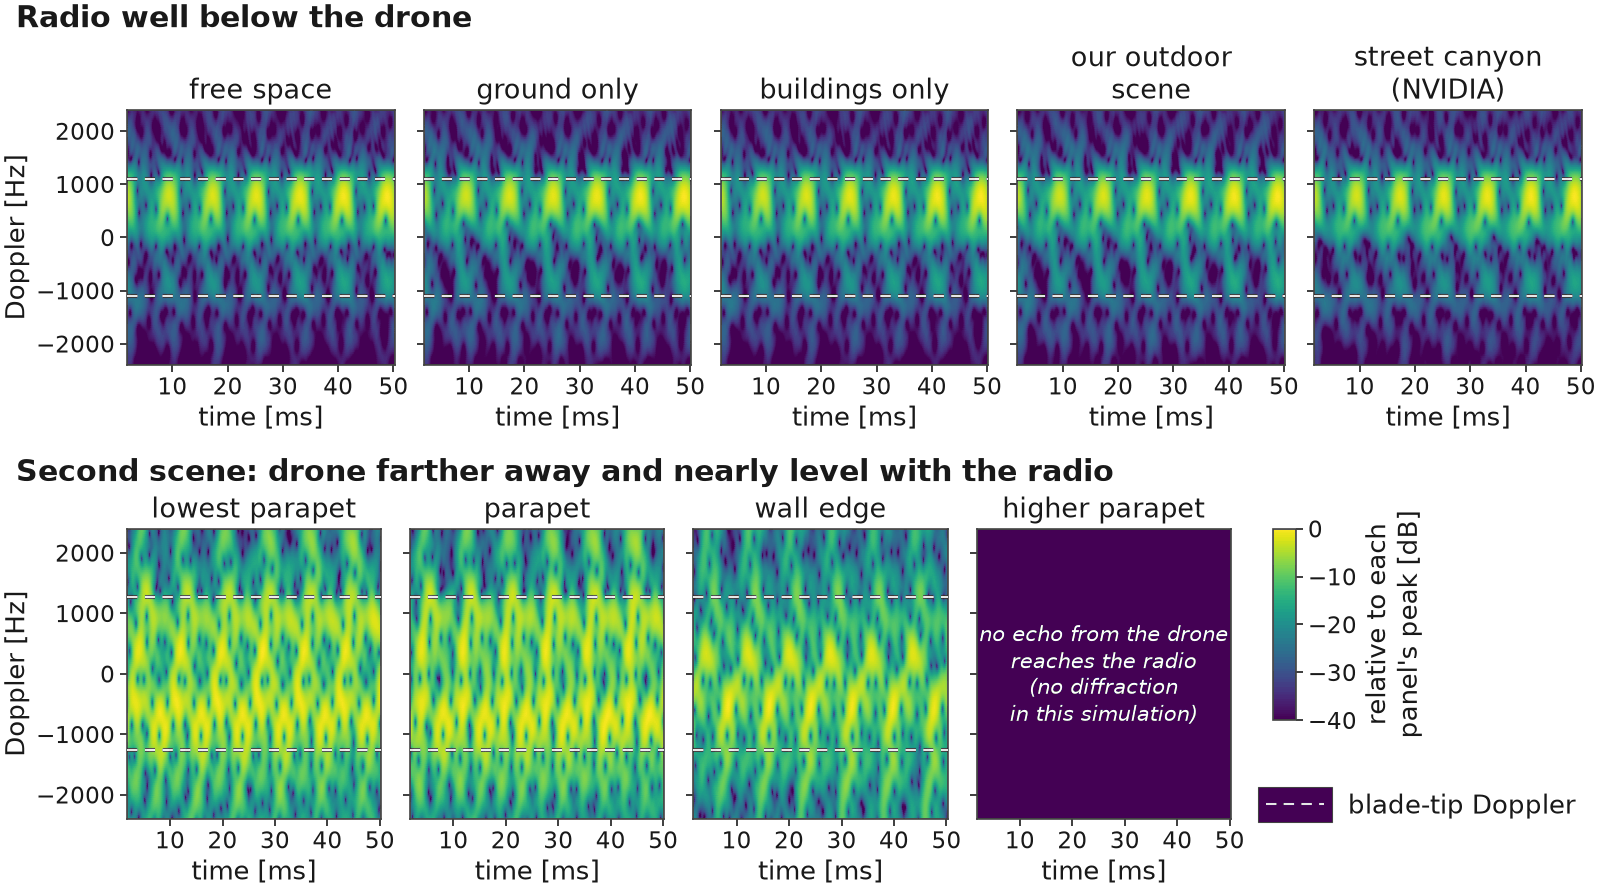
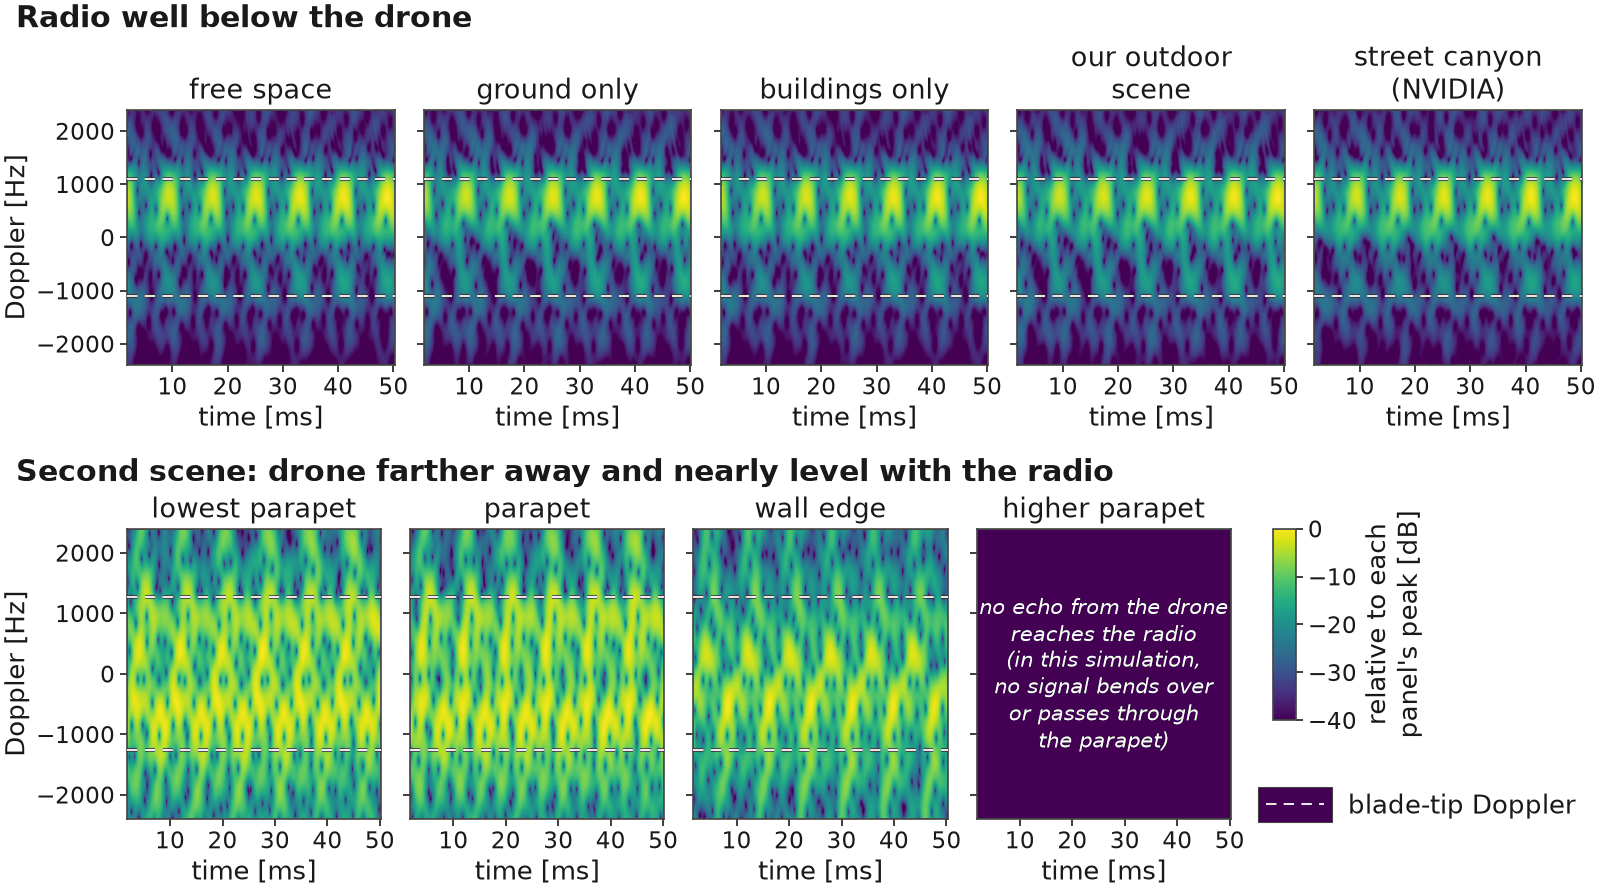
Tighten captions after an independent review
- Seed: rays leave in a fixed pattern; the seed controls the random
  choices made at each bounce.
- CW gallery: say how the constant echo is removed (a narrow band
  around zero Doppler), that the glitch repair is similar to the one
  in Figures 6 and 7 but not identical, and that faint speckle far
  past the dashed lines comes from the ray-tracing simulation.
- Wall and parapet cards: note that much of the fine pattern changes
  with the seed, and that the simulated shadows are sharp because no
  signal bends over or passes through the panel; relabel the empty
  panel in two figures to match.
- Scope the side-by-side takeaway to these simulations; add a status
  line for the first tracker under Next steps.

Changed region(s): [[0.625, 0.6674, 0.7812, 0.8494]]

diff --git a/index.html b/index.html
@@ -80,7 +80,7 @@
 
     <section id="overview" aria-labelledby="overview-title">
       <h2 id="overview-title">What I am working on</h2>
-      <p>Small drones are hard to see by radio. They return weak echoes, fly low, and hover near the ground and buildings, which echo more strongly than the drone itself. Meanwhile, wireless networks are being designed to sense as well as communicate. In <em>integrated sensing and communication</em> (ISAC), a signal sent to carry data also works as a radar signal.</p>
+      <p>Small drones are hard to see by radio. They return weak echoes, fly low, and hover near the ground and buildings, which can echo far more strongly than the drone itself. Meanwhile, wireless networks are being designed to sense as well as communicate. In <em>integrated sensing and communication</em> (ISAC), a signal sent to carry data also works as a radar signal.</p>
       <p>I am studying whether a single software-defined radio can detect a drone and pick up the signature of its spinning blades. The radio would send a 5G-NR-like signal and listen to its own echoes. To understand what it should see, I am building a <em>digital twin</em>: a simulation detailed enough to predict those echoes, and open enough to show where it might mislead.</p>
     </section>
 
@@ -190,7 +190,7 @@
 
       <p><span class="lead-in">What the gaps do.</span> Gaps in such a strong path spread its energy across all Doppler speeds, which paints the bright stripe near the radio in the map as stored. Restoring the path removes the stripe. This fixes the stored output, not the physics.</p>
 
-      <p><span class="lead-in">Repeatability.</span> The ray tracer samples rays at random, and a number called the <em>seed</em> controls that sampling. To see how much this matters, I used a second scene, with the drone farther away and nearly level with the radio, and ran it again with the same seed and with different seeds.</p>
+      <p><span class="lead-in">Repeatability.</span> The ray tracer sends rays out in a fixed pattern, but at each bounce it makes random choices, such as whether a ray that hits the drone reflects like a mirror or scatters, and in which direction. A number called the <em>seed</em> controls those choices. To see how much this matters, I used a second scene, with the drone farther away and nearly level with the radio, and ran it again with the same seed and with different seeds.</p>
 
       <figure class="wide">
         <a class="frame" href="images/08_scene_longer_range.png" title="Open the full-size image">
@@ -214,7 +214,8 @@
     <section id="environments" aria-labelledby="environments-title">
       <h2 id="environments-title">Blade-flash signatures across environments (CW view)</h2>
       <p>The simulator turns the rotors forward in small steps and, at each step, adds up every ray-traced path at a single frequency. That is what a <em>continuous-wave</em> (CW) radar would receive: one steady tone, one sample per rotor step, and no range information. A short-time Fourier transform (Doppler over time, from short overlapping windows) turns that record into a blade-flash map. Ground, buildings and walls can echo far more strongly than the drone, or block the paths to it, so I placed the same hovering quadcopter in different surroundings: open sky, flat ground, buildings, the outdoor scene I built, NVIDIA’s built-in street canyon, and walls and parapets of different heights.</p>
-      <p><span class="lead-in">How to read the cards.</span> Each card shows the rendered scene, then two maps of Doppler over time. The first map keeps the constant echo; the second removes everything that stays constant, as the sensing receiver does. The band at zero in the first map looks wide only because each analysis window is short, not because anything in it moves, and the faint lines just outside it come from the same windowing. In every scene with ground or a wall, the still echo is so much stronger than the drone that the first map shows little besides this band, so those first maps look alike. The dashed lines mark the blade-tip Doppler, the largest Doppler that blade motion alone produces in that geometry; the short window smears each flash slightly past them. Every map is scaled to its own peak, so the maps compare shapes, not strengths. The same kind of repair as in Figures 6–7 is applied throughout, so brief gaps in the stored ray-tracing output do not show up as stripes. In the renders, the coloured markers only mark positions; the quadcopter itself is far smaller.</p>
+      <p><span class="lead-in">How to read the cards.</span> Each card shows the rendered scene, then two maps of Doppler over time. The first map keeps the constant echo; the second removes it by cutting a narrow band around zero Doppler, much as the sensing receiver does. The band at zero in the first map looks wide only because each analysis window is short, not because anything in it moves, and the faint lines just outside it come from the same windowing. In every scene with ground or a wall, the still echo is so much stronger than the drone that the first map shows little besides this band, so those first maps look alike.</p>
+      <p>The dashed lines mark the blade-tip Doppler, the largest Doppler that blade motion alone produces in that geometry; the short window smears each flash slightly past them. Fainter speckle farther past the dashed lines, strongest in the wall and parapet cards, comes from the ray-tracing simulation rather than from the blades. Every map is scaled to its own peak, so the maps compare shapes, not strengths. In both maps, brief glitches in the stored ray-tracing output are smoothed over, so they do not show up as stripes; the repair is similar to the one in Figures 6 and 7, not identical. In the renders, the coloured markers only mark positions; the quadcopter itself is far smaller.</p>
       <p><span class="lead-in">Same flashes as Figure 3, drawn differently.</span> Figure 3 uses long analysis windows that span many flashes, so the repeating flashes add up to evenly spaced horizontal lines. Here each window is shorter than the gap between two flashes, so each flash shows up as its own burst in time. For the same reason, the narrow cut at zero Doppler, which shows as a dark band in Figure 3, is too narrow to see here.</p>
 
       <h3 id="env-group-below">Radio well below the drone</h3>
@@ -279,7 +280,7 @@
                    alt="Two spectrograms of Doppler versus time for the drone with buildings nearby and no ground, with dashed blade-tip lines. Both views look like free space: with the constant echo kept, a band at zero Doppler from the drone body plus evenly spaced blade flashes; with it removed, the flashes alone. The buildings stand off to the side and send almost nothing back to the radio.">
             </picture>
           </a>
-          <figcaption><span class="takeaway">Buildings off to the side send almost nothing back at this angle, so both maps look like open sky.</span> The buildings and poles of our outdoor scene (next card), with the ground left out. The tallest building only looks as if it touches the radio: it stands well behind it, not beside it. Building edges are outlined in the render so that the boxes read as solid.</figcaption>
+          <figcaption><span class="takeaway">Buildings off to the side send almost nothing back at this angle, so both maps look like open sky.</span> The buildings and poles of our outdoor scene (next card), with the ground left out. In this scene, building surfaces reflect like mirrors and scatter nothing, which is part of why they add so little. The tallest building only looks as if it touches the radio: it stands well behind it, not beside it. Building edges are outlined in the render so that the boxes read as solid.</figcaption>
         </figure>
       </div>
 
@@ -326,7 +327,7 @@
       </div>
 
       <h3 id="env-group-walls">Second scene: walls and parapets</h3>
-      <p>These cards use the second scene (Figure 8): the drone farther away and nearly level with the radio, with a concrete panel halfway between them. The panel is either a parapet whose top edge is raised step by step, as in Figure 10 under <a href="#next">Next steps</a>, or a tall wall whose edge sits on the line of sight. This group also uses an antenna aimed at the drone and different ray-tracing settings. Its maps come out denser and more symmetric about zero than those above, partly because the geometry differs. Part of the spread, including the energy past the dashed lines that reaches the top and bottom edges, comes from the simulation rather than from the blades: in this group, the ray-traced echoes jump more from one rotor step to the next. Compare maps within a group rather than across the two groups.</p>
+      <p>These cards use the second scene (Figure 8): the drone farther away and nearly level with the radio, with a concrete panel halfway between them. The panel is either a parapet whose top edge is raised step by step, as in Figure 10 under <a href="#next">Next steps</a>, or a tall wall whose edge sits on the line of sight. This group also uses an antenna aimed at the drone and different ray-tracing settings. Its maps come out denser and more symmetric about zero than those above, partly because the geometry differs. Much of the spread, including most of the energy past the dashed lines that reaches the top and bottom edges, comes from the ray-tracing simulation rather than from the blades. In this group, the ray-traced echoes jump more from one rotor step to the next. With another seed, that spread and much of the fine pattern come out differently, so read only the broad differences between these cards. Compare maps within a group rather than across the two groups.</p>
 
       <div class="env-card" id="env-lowest-parapet">
         <h4>Lowest parapet: blocks nothing <span class="env-tag">Built for this project</span></h4>
@@ -345,7 +346,7 @@
                    alt="Two spectrograms of Doppler versus time in the second scene, with a parapet too low to block anything and dashed blade-tip lines. First, with the constant echo kept: only a wide bright band at zero Doppler. Second, with the constant echo removed: a repeating criss-cross pattern of blade flashes on both sides of zero between the dashed lines, over a speckled background that also fills the map beyond them.">
             </picture>
           </a>
-          <figcaption><span class="takeaway">A parapet too low to block anything: the reference for this group.</span> With the constant echo removed, a repeating criss-cross of blade flashes shows on both sides of zero. The speckled background around it, including what lies past the dashed lines, comes partly from the simulation settings, not from the blades.</figcaption>
+          <figcaption><span class="takeaway">A parapet too low to block anything: the reference for this group.</span> With the constant echo removed, a repeating criss-cross of blade flashes shows on both sides of zero. The speckled background around it, including what lies past the dashed lines, comes mostly from the ray-tracing simulation, not from the blades.</figcaption>
         </figure>
       </div>
 
@@ -387,7 +388,7 @@
                    alt="Two spectrograms of Doppler versus time in the second scene, with a wall whose edge hides half of the drone, and dashed blade-tip lines. First, with the constant echo kept: only a wide bright band at zero Doppler. Second, with the constant echo removed: a thinner flash pattern whose brightest parts sit closer to zero and on the negative-Doppler side.">
             </picture>
           </a>
-          <figcaption><span class="takeaway">When a wall’s vertical edge hides half of the drone, the flashes thin out and shift toward zero and the negative side.</span> Which parts of the rotors the radio can see shapes the signature. The wall’s edge cuts the path via the ground in the same way. In the render, the faint dotted stretch is only hidden from the camera, not from the radio; the wall’s edge itself lies on the line of sight.</figcaption>
+          <figcaption><span class="takeaway">When a wall’s vertical edge hides half of the drone, the flashes thin out and shift toward the negative side.</span> Which parts of the rotors the radio can see shapes the signature. The wall’s edge cuts the path via the ground in the same way. In this simulation, no signal bends around the wall’s edge, so its cut is sharp; a real edge would soften it. In the render, the faint dotted stretch is only hidden from the camera, not from the radio; the wall’s edge itself lies on the line of sight.</figcaption>
         </figure>
       </div>
 
@@ -405,10 +406,10 @@
             <picture>
               <source media="(max-width: 40rem)" srcset="images/20_stft_parapet_hidden_narrow.png" width="900" height="1120">
               <img src="images/20_stft_parapet_hidden.png" width="1600" height="650" loading="lazy" decoding="async"
-                   alt="Two spectrograms of Doppler versus time in the second scene, with a higher parapet that hides the whole drone. First, with the constant echo kept: only a wide bright band at zero Doppler, between dashed blade-tip lines. Second, with the constant echo removed: an empty dark panel labelled “no echo from the drone reaches the radio (no diffraction in this simulation)”.">
+                   alt="Two spectrograms of Doppler versus time in the second scene, with a higher parapet that hides the whole drone. First, with the constant echo kept: only a wide bright band at zero Doppler, between dashed blade-tip lines. Second, with the constant echo removed: an empty dark panel labelled “no echo from the drone reaches the radio (in this simulation, no signal bends over the parapet or passes through it)”.">
             </picture>
           </a>
-          <figcaption><span class="takeaway">A parapet high enough to hide the whole drone leaves nothing once the constant echo is removed.</span> The red cross marks where the parapet blocks the line of sight. This simulation has no diffraction, so the shadow is perfectly sharp; a real edge would bend some signal around it and leave a faint signature.</figcaption>
+          <figcaption><span class="takeaway">A parapet high enough to hide the whole drone leaves nothing once the constant echo is removed.</span> The red cross marks where the parapet blocks the line of sight. In this simulation, no signal bends over the parapet’s edge or passes through it, so the shadow is complete. A real parapet would let some signal over and through.</figcaption>
         </figure>
       </div>
 
@@ -420,17 +421,17 @@
           <picture>
             <source media="(max-width: 40rem)" srcset="images/20_stft_grid_narrow.png" width="900" height="1760">
             <img src="images/20_stft_grid.png" width="1600" height="890" loading="lazy" decoding="async"
-                 alt="Nine spectrograms of Doppler versus time, all with the constant echo removed, with dashed blade-tip lines. First group, radio well below the drone: free space, ground only, buildings only, our outdoor scene and the NVIDIA street canyon all show nearly the same evenly spaced blade flashes, strongest at positive Doppler and inside the dashed lines. Second group, the second scene: the lowest parapet and the parapet show a repeating pattern on both sides of zero over a speckled background that spreads past the dashed lines, the wall edge shows a thinner pattern shifted toward zero, and the higher-parapet panel is empty.">
+                 alt="Nine spectrograms of Doppler versus time, all with the constant echo removed, with dashed blade-tip lines. First group, radio well below the drone: free space, ground only, buildings only, our outdoor scene and the NVIDIA street canyon all show nearly the same evenly spaced blade flashes, strongest at positive Doppler and inside the dashed lines. Second group, the second scene: the lowest parapet and the parapet show a repeating pattern on both sides of zero over a speckled background that spreads past the dashed lines, the wall edge shows a thinner pattern, shifted toward zero and the negative side, and the higher-parapet panel is empty.">
           </picture>
         </a>
-        <figcaption><span class="takeaway">Still surroundings change the constant echo, not the blade flashes; hiding part of the drone changes the flashes.</span> The constant-echo-removed maps from every card above, with the blade-tip Doppler dashed. First group: radio well below the drone, from open sky to the NVIDIA street canyon. Second group: the second scene, from the lowest parapet to the higher parapet.</figcaption>
+        <figcaption><span class="takeaway">In these simulations, still surroundings mostly change the constant echo; hiding part of the drone changes the flashes.</span> The constant-echo-removed maps from every card above, with the blade-tip Doppler dashed. First group: radio well below the drone, from open sky to the NVIDIA street canyon. Second group: the second scene, from the lowest parapet to the higher parapet.</figcaption>
       </figure>
     </section>
 
     <section id="next" aria-labelledby="next-title">
       <h2 id="next-title">Next steps</h2>
       <ul class="next-steps">
-        <li><strong>Moving drones and tracking:</strong> drones flying past the radio, a search over the whole map, and a tracker.</li>
+        <li><strong>Moving drones and tracking:</strong> a first tracker now follows the drone’s range and its speed toward the radio, in one simulation of a drone heading straight for it. Broader tests, such as drones flying past the radio, are still to come.</li>
         <li><strong>Communication traffic:</strong> how the gaps left by traffic, and pilot-only frames built from standard reference signals, affect sensing.</li>
         <li><strong>Design tool:</strong> using the twin to plan where antennas go and where they point.</li>
         <li><strong>Realism:</strong> leakage from transmitter to receiver, phase noise, buildings in the full sensing chain, more airframes, and detection at different ranges.</li>
